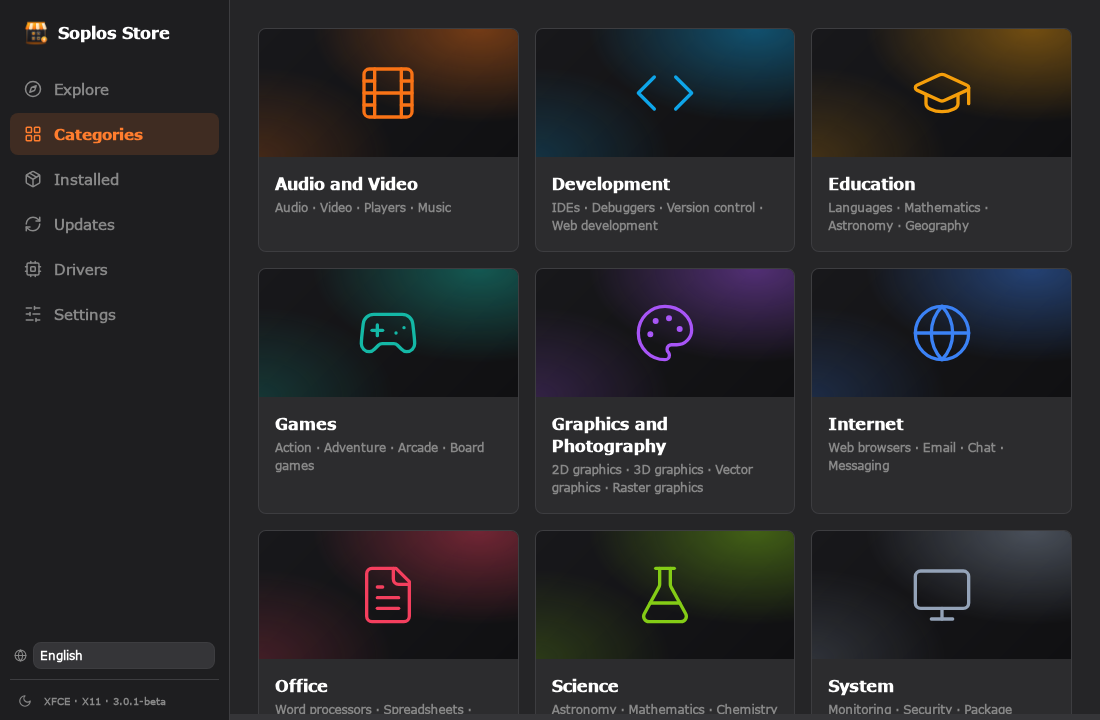
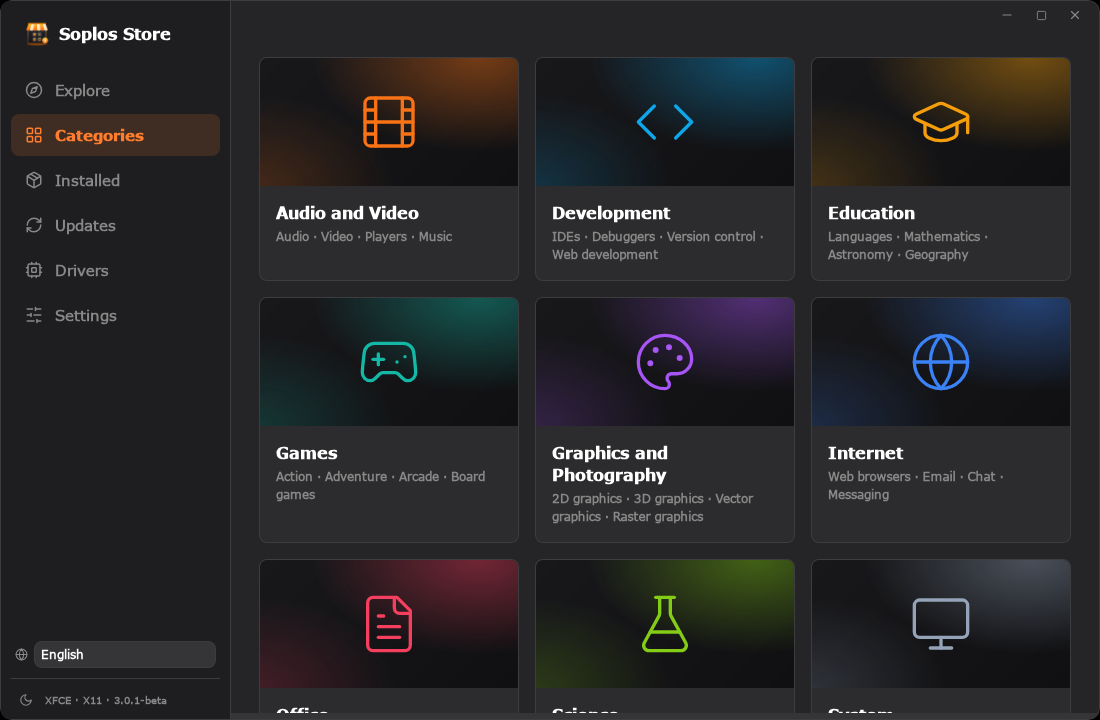
Frameless card window, new screenshots and bump to 3.0.1-2-beta

diff --git a/src/components/WindowControls.svelte b/src/components/WindowControls.svelte
@@ -1,0 +1,40 @@
+<script lang="ts">
+  import { getCurrentWindow } from "@tauri-apps/api/window";
+  import { _ } from "svelte-i18n";
+  import { Minus, Square, Copy, X } from "lucide-svelte";
+  import { maximized } from "../lib/window";
+
+  // The buttons of the window when the system draws no frame: minimize, maximize
+  // or restore, and close, at the top right of the card. They are plain icons;
+  // the accent of the theme shows under the pointer, and red only on close.
+  const win = getCurrentWindow();
+
+  const button = "grid h-[22px] w-8 place-items-center rounded text-text-muted transition-colors";
+</script>
+
+<div class="flex items-center gap-0.5">
+  <button
+    class="{button} hover:bg-primary/15 hover:text-primary"
+    title={$_("app.window.minimize")}
+    aria-label={$_("app.window.minimize")}
+    on:click={() => win.minimize()}
+  >
+    <Minus size={14} />
+  </button>
+  <button
+    class="{button} hover:bg-primary/15 hover:text-primary"
+    title={$maximized ? $_("app.window.restore") : $_("app.window.maximize")}
+    aria-label={$maximized ? $_("app.window.restore") : $_("app.window.maximize")}
+    on:click={() => win.toggleMaximize()}
+  >
+    {#if $maximized}<Copy size={11} />{:else}<Square size={11} />{/if}
+  </button>
+  <button
+    class="{button} hover:bg-danger hover:text-white"
+    title={$_("app.window.close")}
+    aria-label={$_("app.window.close")}
+    on:click={() => win.close()}
+  >
+    <X size={14} />
+  </button>
+</div>

diff --git a/src/App.svelte b/src/App.svelte
@@ -166,14 +166,22 @@
     unlisten?.();
     unlistenUpdates?.();
   });
+  import WindowControls from "./components/WindowControls.svelte";
+  import { frameless, maximized } from "./lib/window";
 </script>
 
 <svelte:window on:keydown={handleKeydown} />
 
-<div class="flex h-screen overflow-hidden">
+<div class="h-screen bg-dark {$frameless && !$maximized ? 'window-card' : ''}">
+<div class="flex h-full overflow-hidden">
   <Sidebar tabs={shownTabs} {active} onSelect={selectTab} {footerLabel} onAbout={() => (aboutOpen = true)} />
 
   <div class="flex-1 flex flex-col overflow-hidden min-w-0">
+    {#if $frameless}
+      <div class="relative h-7 shrink-0" data-tauri-drag-region>
+        <div class="absolute right-2 top-[3px]"><WindowControls /></div>
+      </div>
+    {/if}
     <div class="content-scroll flex-1 overflow-y-auto p-7" bind:this={scroller}>
       {#key refreshKey}
         {#if page?.kind === "app"}
@@ -220,3 +228,4 @@
 {/if}
 <ScopeDialog />
 <Toast />
+</div>

diff --git a/src/lib/window.ts b/src/lib/window.ts
@@ -1,0 +1,21 @@
+import { writable } from "svelte/store";
+import { getCurrentWindow } from "@tauri-apps/api/window";
+
+// Whether the system draws a frame around the window. With `decorations` off in
+// tauri.conf.json it does not: the window is one card with rounded corners (the
+// .window-card rule of global.css) and the program shows its own window buttons
+// (WindowControls.svelte). With it on, none of that shows.
+export const frameless = writable(false);
+export const maximized = writable(false);
+
+(async () => {
+  try {
+    const win = getCurrentWindow();
+    if (await win.isDecorated()) return;
+    frameless.set(true);
+    maximized.set(await win.isMaximized());
+    await win.onResized(async () => maximized.set(await win.isMaximized()));
+  } catch {
+    // Not inside Tauri (a browser while developing): leave the window as it is.
+  }
+})();

diff --git a/src/styles/global.css b/src/styles/global.css
@@ -36,12 +36,24 @@
 
   body {
     font-family: "Segoe UI", Tahoma, Geneva, Verdana, sans-serif;
-    background: theme("colors.dark");
+    /* The background is the one of the window card (App.svelte): the body stays
+       transparent so the corners of a window with no frame can be rounded. */
+    background: transparent;
     color: theme("colors.text.DEFAULT");
     height: 100vh;
     margin: 0;
     overflow: hidden;
   }
+}
+
+/*
+ * The window when the system draws no frame: one card with rounded corners.
+ * clip-path also cuts the dialogs (position: fixed), which overflow does not.
+ */
+.window-card {
+  border-radius: 12px;
+  border: 1px solid rgb(var(--color-border));
+  clip-path: inset(0 round 12px);
 }
 
 .content-scroll {

diff --git a/src/components/Sidebar.svelte b/src/components/Sidebar.svelte
@@ -17,7 +17,7 @@
   }
 </script>
 
-<aside class="w-[230px] shrink-0 flex flex-col pt-[18px] px-[10px] pb-2 bg-panel border-r border-border">
+<aside class="w-[230px] shrink-0 flex flex-col pt-[18px] px-[10px] pb-2 bg-panel border-r border-border" data-tauri-drag-region>
   <div class="flex items-center gap-2 px-3 pb-[22px] font-bold text-[0.98rem] text-text-bright">
     <img src={logo} alt="" class="w-[28px] h-[28px] object-contain shrink-0" />
     <span class="leading-tight">Soplos Store</span>

diff --git a/CHANGELOG.md b/CHANGELOG.md
@@ -2,6 +2,12 @@
 
 All notable changes to Soplos Store are documented in this file.
 
+## [3.0.1-2-beta] - 2026-10-29
+
+### Changed
+
+- The window no longer has the frame of the system: it is a card with rounded corners and its own minimize, maximize and close buttons at the top right. It can be moved from the top strip, the banner and the side bar, and double click on the strip maximizes it. The rounded corners need a compositing manager running, as the one of Xfce, Plasma or GNOME.
+
 ## [3.0.1-1-beta] - 2026-10-28
 
 ### Changed

diff --git a/README.md b/README.md
@@ -1,6 +1,6 @@
 # Soplos Store 3.0
 
-![Version](https://img.shields.io/badge/version-3.0.1--1--beta-blue)
+![Version](https://img.shields.io/badge/version-3.0.1--2--beta-blue)
 ![License](https://img.shields.io/badge/license-GPL--3.0--or--later-green)
 ![Platform](https://img.shields.io/badge/platform-Linux-lightgrey)
 ![Tauri](https://img.shields.io/badge/Tauri-2-orange)
